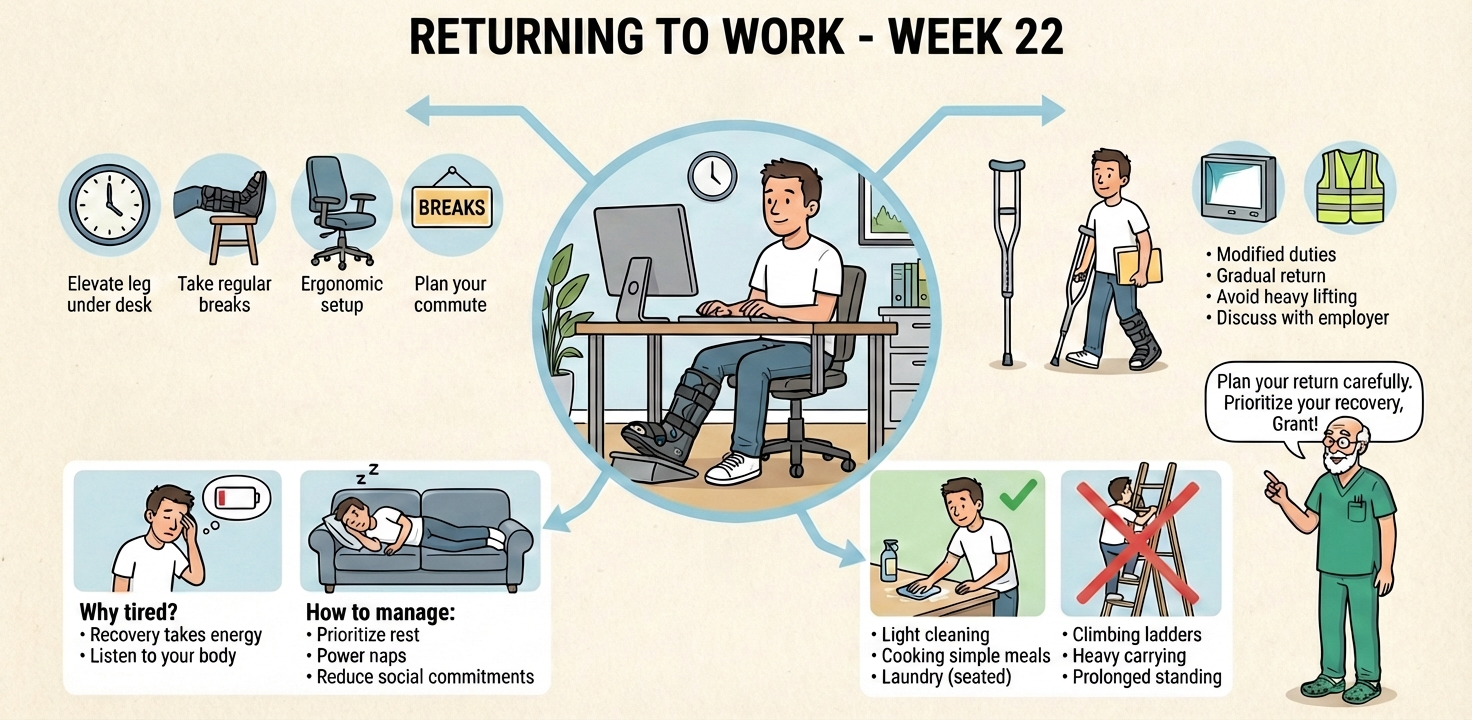
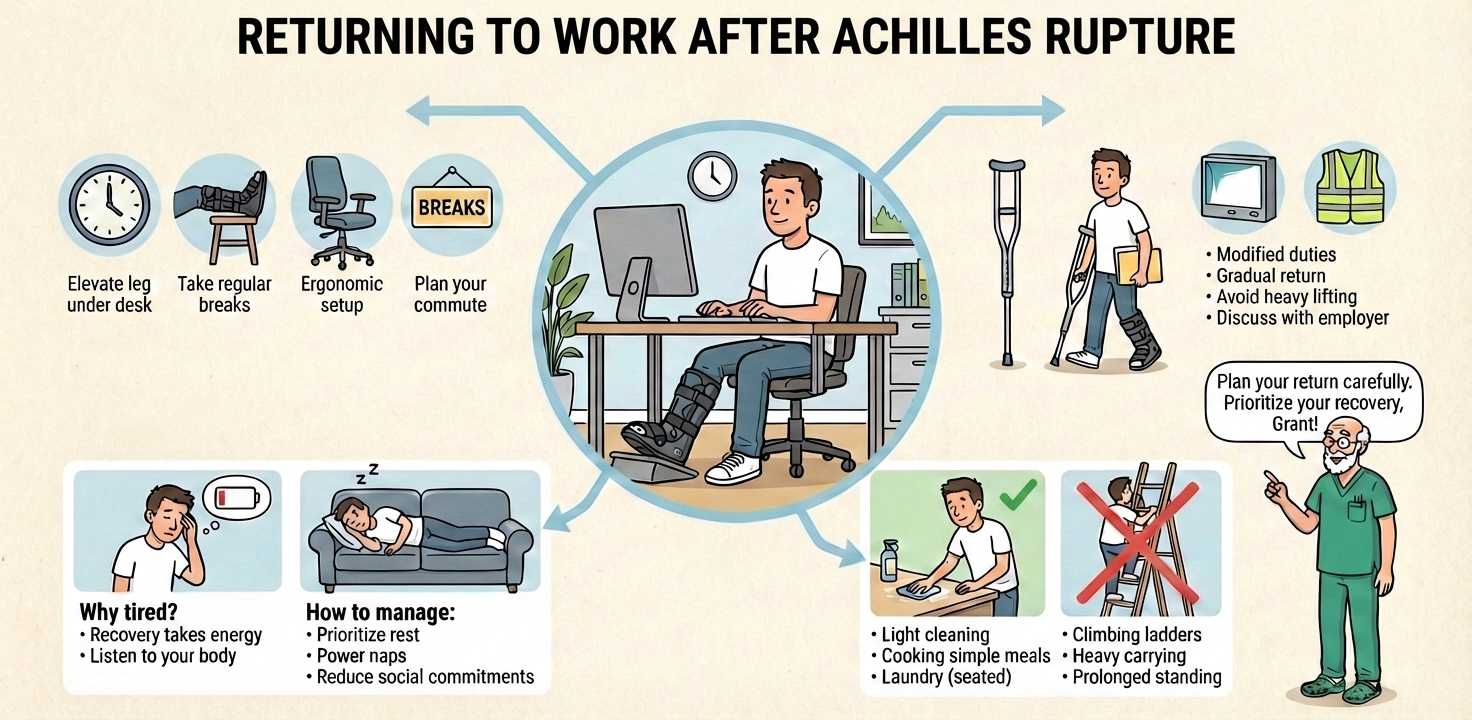
Remove obsolete images and update references in course content for improved clarity and organization. Replaced `dvt-doppler-scan.png`, `returning-to-work-v3-split-panel-fixed.png`, and `walk-jog-progression-v6.png` with updated versions, while also deleting unused assets from the project.

Changed region(s): [[0.1562, 0.0, 0.8438, 0.0917], [0.9062, 0.6111, 0.9375, 0.6417]]

diff --git a/apps/course/src/content/course/standard/08-long-term/preventing-rerupture.tsx b/apps/course/src/content/course/standard/08-long-term/preventing-rerupture.tsx
@@ -1,4 +1,5 @@
 import type { SectionContent } from "@/components/course/types";
+import OngoingStrengthening from "@/assets/ongoing-strengthening-v15.png";
 
 export const metadata = {
     slug: "preventing-rerupture",
@@ -106,6 +107,13 @@ export const content: SectionContent = {
                     type: "text",
                     content:
                         "**Ongoing strength is your best defense against re-rupture.** Strong muscles protect your tendon. Don't stop strengthening just because you're back to activities.",
+                },
+                {
+                    type: "image",
+                    src: OngoingStrengthening,
+                    alt: "Infographic showing ongoing strengthening as the best defense against re-rupture, with anatomical diagrams showing weak vs strong calf muscles, and a four-step program: heel raises, adding resistance, continuing when back to sport, and making it a habit",
+                    caption:
+                        "Ongoing strengthening: your best defense against re-rupture",
                 },
                 {
                     type: "card",

diff --git a/apps/course/src/content/course/standard/01-emergency/blood-clot-prevention.tsx b/apps/course/src/content/course/standard/01-emergency/blood-clot-prevention.tsx
@@ -1,6 +1,6 @@
 import type { SectionContent } from "@/components/course/types";
 import DvtVsPeLegToLungs from "@/assets/dvt-vs-pe-leg-to-lungs.png";
-import DvtDopplerScan from "@/assets/dvt-doppler-scan.png";
+import DvtDopplerScan from "@/assets/dvt-doppler-scan-no-boot.png";
 import DvtSignsSymptoms from "@/assets/dvt-signs-symptoms-tintin-v6.png";
 
 export const metadata = {

diff --git a/apps/course/src/content/course/standard/07-advanced/starting-to-run.tsx b/apps/course/src/content/course/standard/07-advanced/starting-to-run.tsx
@@ -1,6 +1,6 @@
 import type { SectionContent } from "@/components/course/types";
 import RunningFormWeek28 from "@/assets/running-form-week-28.png";
-import WalkJogProgression from "@/assets/walk-jog-progression-v6.png";
+import WalkJogProgression from "@/assets/walk-jog-progression-v6-weeks-clarified.png";
 
 export const metadata = {
     slug: "starting-to-run",

diff --git a/apps/course/src/content/course/standard/06-recovery/returning-to-life.tsx b/apps/course/src/content/course/standard/06-recovery/returning-to-life.tsx
@@ -1,5 +1,5 @@
 import type { SectionContent } from "@/components/course/types";
-import ReturningToWork from "@/assets/returning-to-work-v3-split-panel-fixed.png";
+import ReturningToWork from "@/assets/returning-to-work-v4-radial-v2.png";
 
 export const metadata = {
     slug: "returning-to-life",
